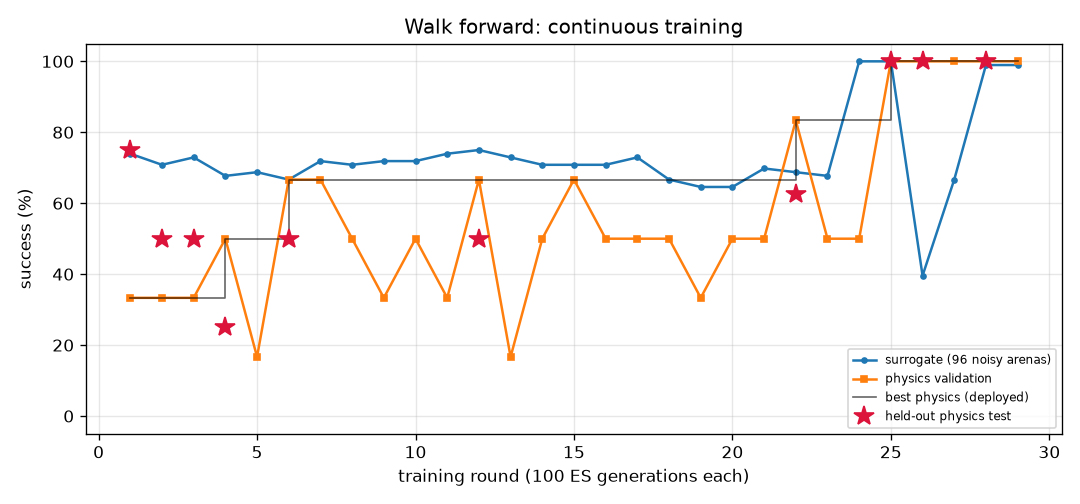
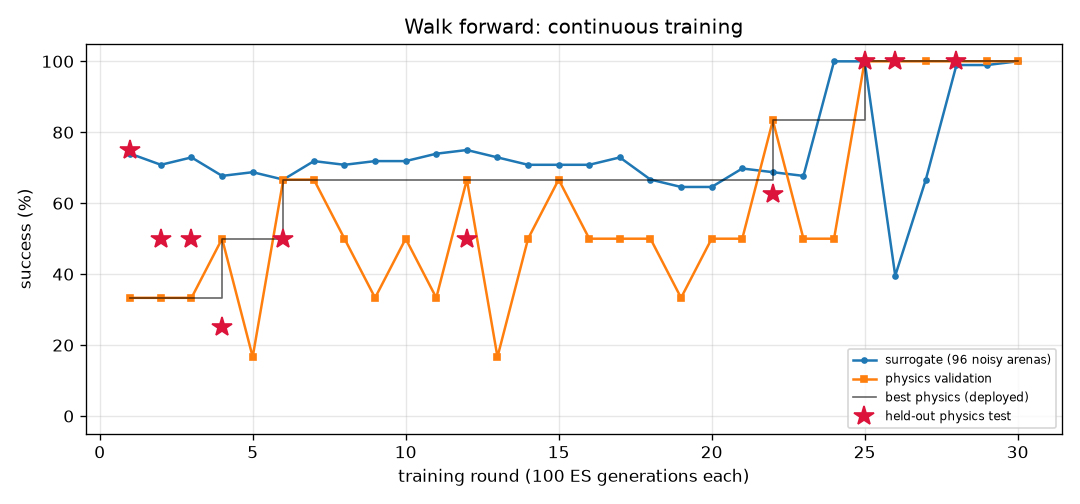
FlyLab: continuous training progress
- walk_forward: optimal, physics val 100% of 24, round 30
- turn: optimal, physics val 96% of 24, round 12
- goto: optimal, physics val 100% of 24, round 36
- odor_seek: optimal, physics val 100% of 24, round 61
- odor_avoid: optimal, physics val 96% of 24, round 208
- light_seek: optimal, physics val 100% of 24, round 205
- light_avoid: optimal, physics val 100% of 24, round 26

diff --git a/projects/09_flylab/training/TRAINING.md b/projects/09_flylab/training/TRAINING.md
@@ -1,12 +1,12 @@
 # FlyLab brains — continuous training log
 
-*Auto-generated by `train_brains.py`, last updated 2026-09-30T21:28:31.*
+*Auto-generated by `train_brains.py`, last updated 2026-09-30T21:36:07.*
 
 Every skill has its own brain and its own training process: surrogate ES rounds, physics validation in MuJoCo, keep-the-best selection, and a held-out physics test that is never used for selection. See each skill's report for its full round-by-round history. Mastery is progressive: passing a level (100% physics validation, >=95% surrogate) doubles the validation and test arena sets; a brain is **optimal** once it holds up at level 3 (>=95% of 24 validation arenas) AND scores >=90% on the 32 held-out test arenas. Test columns show 95% Wilson confidence intervals.
 
 | skill | rounds | ES generations | physics runs | surrogate | physics val | **physics test** | status |
 |---|---:|---:|---:|---:|---:|---:|---|
-| [Walk forward](walk_forward/REPORT.md) | 29 | 2900 | 454 | 99% | 100% of 24 | 100% of 32 (CI 89-100%) | **optimal** |
+| [Walk forward](walk_forward/REPORT.md) | 30 | 3000 | 478 | 99% | 100% of 24 | 100% of 32 (CI 89-100%) | **optimal** |
 | [Turn in place](turn/REPORT.md) | 12 | 1200 | 406 | 100% | 96% of 24 | 91% of 32 (CI 76-97%) | **optimal** |
 | [Go to a location](goto/REPORT.md) | 36 | 3600 | 558 | 100% | 100% of 24 | 100% of 32 (CI 89-100%) | **optimal** |
 | [Find food by smell](odor_seek/REPORT.md) | 61 | 6100 | 574 | 100% | 100% of 24 | 100% of 32 (CI 89-100%) | **optimal** |

diff --git a/projects/09_flylab/training/walk_forward/REPORT.md b/projects/09_flylab/training/walk_forward/REPORT.md
@@ -1,14 +1,14 @@
 # Walk forward (`walk_forward`) — training report
 
-*Auto-generated by `train_brains.py`, last updated 2026-09-30T21:28:31.*
+*Auto-generated by `train_brains.py`, last updated 2026-09-30T21:36:07.*
 
 ![curve](curve.png)
 
 | | |
 |---|---|
-| rounds | 29 |
-| ES generations | 2900 |
-| physics runs | 454 |
+| rounds | 30 |
+| ES generations | 3000 |
+| physics runs | 478 |
 | status | **optimal** |
 | best brain | round 28: physics validation **100%** on 24 arenas, surrogate 99% |
 | held-out physics test | **100%** on 32 unseen arenas (95% CI 89%-100%) (errors: [0.76, 0.74, 0.68, 0.67, 0.76, 0.71, 0.74, 0.67, 0.67, 0.67, 0.68, 0.76, 0.67, 0.67, 0.71, 0.69, 0.76, 0.73, 0.76, 0.68, 0.68, 0.67, 0.74, 0.72, 0.76, 0.74, 0.67, 0.76, 0.74, 0.75, 0.67, 0.76]) |
@@ -46,3 +46,4 @@ Physics error per arena: mm from target at the end (< 1.5 and standing still = s
 | 27 | 1 | 2700 | 0.058 | 67% | 100% | [0.89, 0.87, 0.9, 0.9, 0.87, 0.89] |  |  |
 | 28 | 1 | 2800 | 0.043 | 99% | 100% | [0.72, 0.68, 0.75, 0.72, 0.68, 0.76] | 100% | new best |
 | 29 | 3 | 2900 | 0.025 | 99% | 100% | [0.45, 0.51, 0.46, 0.45, 0.51, 0.47, 0.52, 0.45, 0.51, 0.53, 0.48, 0.54, 0.45, 0.47, 0.46, 0.54, 0.44, 0.5, 0.45, 0.48, 0.45, 0.53, 0.53, 0.45] |  |  |
+| 30 | 3 | 3000 | 0.025 | 100% | 100% | [0.73, 0.81, 0.74, 0.73, 0.8, 0.75, 0.82, 0.74, 0.81, 0.83, 0.76, 0.83, 0.73, 0.75, 0.75, 0.83, 0.73, 0.78, 0.73, 0.76, 0.73, 0.83, 0.83, 0.73] |  |  |
